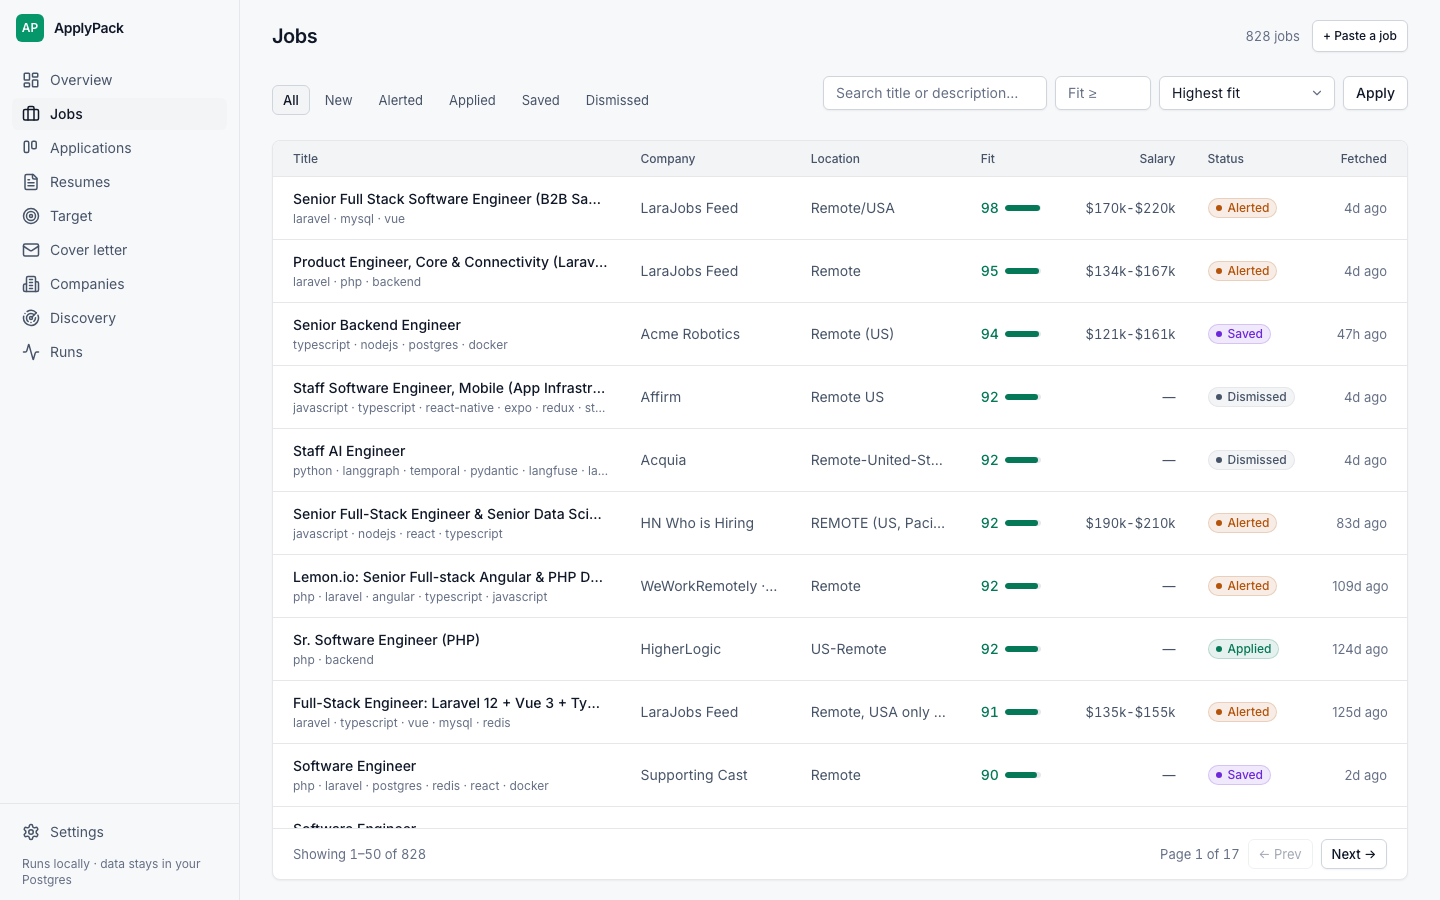
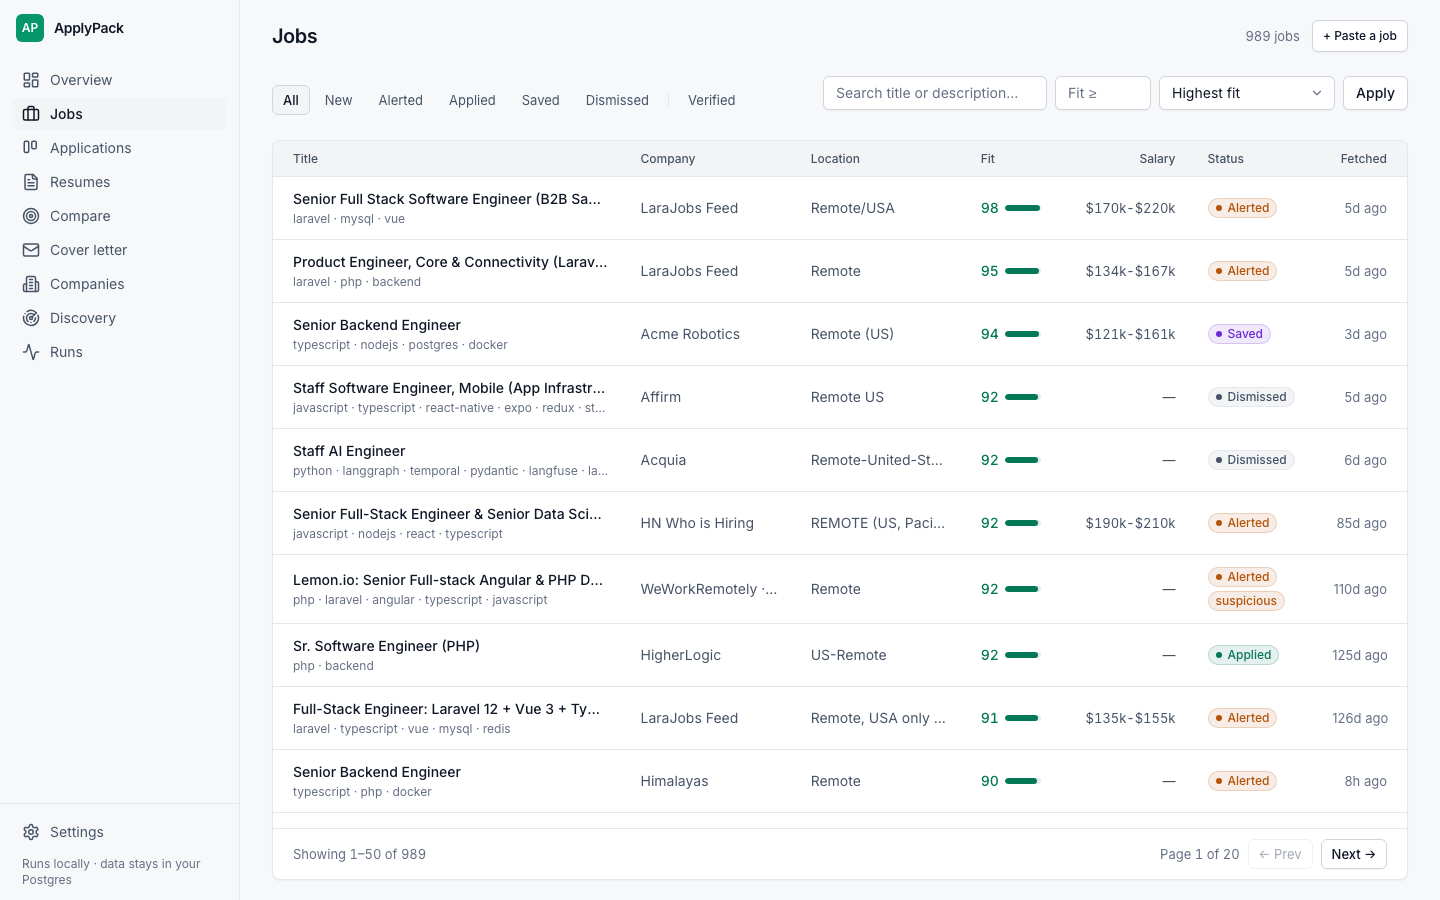
docs: catch README/SPEC/ARCHITECTURE up to v1.10.0
Quick start no longer demands a key in .env (ADR 0027), the Anthropic row
drops the measured-false "prompt-cached", 22 says what it counts, and the
tables learn parallel searches, the wizard, packs and the prompt fence.

diff --git a/README.md b/README.md
@@ -25,11 +25,12 @@ You know what you're looking for. The boards keep showing you everything
 else, and every "Senior Engineer" listing takes three minutes of reading
 to reveal the wrong stack, the wrong country, or a ghost posting.
 
-ApplyPack does that reading for you. It watches 22 job sources around
-the clock, scores each posting against your real profile, and pings your
-Telegram only when something deserves an application. Then it helps you
-apply well: it checks whether the job is real, scores your resume against
-the posting, and shows you exactly what to change.
+ApplyPack does that reading for you. It watches 22 kinds of job source
+around the clock, scores each posting against your real profile — several
+searches at once, if you're hunting in more than one direction — and pings
+your Telegram only when something deserves an application. Then it helps
+you apply well: it checks whether the job is real, scores your resume
+against the posting, and shows you exactly what to change.
 
 Everything runs on your machine. Your resume, your profile and every AI
 report stay in your own Postgres. `docker compose up` on a laptop or a
@@ -39,16 +40,19 @@ $5 VPS is the whole deployment story.
 
 | | |
 | --- | --- |
-| 🔭 **22 sources, checked hourly** | Ten ATS vendors — Greenhouse, Lever, Ashby, Workable, SmartRecruiters, Recruitee, Breezy, BambooHR, Pinpoint, Rippling — on the boards you pick, plus 11 aggregators and the monthly HN "Who is hiring" thread |
+| 🔭 **22 source integrations, checked hourly** | The number counts *kinds* of board, not companies: ten ATS vendors — Greenhouse, Lever, Ashby, Workable, SmartRecruiters, Recruitee, Breezy, BambooHR, Pinpoint, Rippling — on as many companies as you care to add, plus 11 cross-company aggregators and the monthly HN "Who is hiring" thread. Curated **starter packs** add a whole segment of companies at once |
+| 🚀 **A guided first run** | `/welcome` walks a first install through connecting an AI, proving the search works, turning a resume into a profile, and scoring the first matches — four clicks and one file pick |
+| 🎯 **Several searches at once** | Backend and QA, or contract and full-time: each search has its own stack, thresholds, resume and Telegram chat, and up to eight run in parallel. One AI call per posting scores all of them, so a second direction costs almost nothing |
 | 🧠 **A classifier with strict rules** | AI reads the full description against your stack, role types, seniority, regions and salary floor. "Full-stack" in a title is not a tech match, and "Remote · Germany" is not a US-remote job |
 | 📲 **Telegram instead of tab-refreshing** | alerts above your fit threshold, a daily digest, and a nudge when an application goes quiet for two weeks |
 | 🕵 **Ghost-job verification** | a live web-search checklist (careers page, company footprint, posting age, named humans) returns `legit` / `suspicious` / `fake` with evidence URLs |
 | 📄 **Resume scores that can't flatter** | the model marks facts, application code computes the score. A Laravel resume cannot sweet-talk its way to 85 against a Node.js posting, and v2 is honestly comparable to v1 |
 | ✍ **Targeted resume editor** | posting and resume side by side, every keyword highlighted, coverage recomputed on each keystroke without spending a single AI call |
 | 💌 **Cover letters that can't invent facts** | drafted from the posting, your resume and your own angle notes; every claim passes a fact gate against stored evidence, and the letter exports to PDF / DOCX |
-| 🗂 **Application tracking** | a small kanban from *applied* to *offer*, plus reminders for applications gone quiet |
+| 🗂 **Application tracking** | a kanban with columns you name yourself, the resume each application went out with, and reminders for the ones gone quiet |
 | 🔌 **Five AI backends, auto-failover** | Claude Code / Gemini / Codex CLIs riding your subscriptions, the Anthropic API, or any OpenAI-compatible endpoint including free local models |
 | 🧭 **Board discovery** | harvests company ATS boards from HN comments and queues them for a one-click promote |
+| 🛡 **Job posts can't hijack the prompt** | every posting, resume and web page reaches the model inside explicit untrusted-text markers, and a test fails the build if a new AI call site skips them |
 | 🏠 **Self-hosted and private** | official public APIs and RSS only, dashboard bound to `127.0.0.1`, no accounts, no telemetry |
 
 ## Quick start
@@ -56,12 +60,17 @@ $5 VPS is the whole deployment story.
 ```bash
 git clone https://github.com/applypack/applypack.git
 cd applypack
-cp .env.example .env    # add one AI engine, see below
+cp .env.example .env    # nothing to fill in yet
 docker compose up -d    # postgres + worker + dashboard → http://localhost:4747
 ```
 
-One line in `.env` is enough to start; the rest is configured in the
-dashboard later:
+**You don't need an API key before the first boot.** Paste one into the
+dashboard instead — step 1 of `/welcome`, or **Settings → AI engine** any
+time. Keys are stored in Postgres, shown masked, and never logged
+([ADR 0027](./docs/adr/0027-ai-keys-in-the-database.md)); `.env` is only the
+fallback for engines that have no key saved.
+
+If you'd rather keep credentials in the file, one line still does it:
 
 ```bash
 ANTHROPIC_API_KEY=sk-ant-...                              # Anthropic API
@@ -70,13 +79,17 @@ ANTHROPIC_API_KEY=sk-ant-...                              # Anthropic API
 # or: OPENAI_API_KEY=... (+ OPENAI_BASE_URL)              # OpenAI, OpenRouter, Groq, local
 ```
 
+Either way the AI tab shows, per engine, whether it is usable on this
+machine and where its credential came from.
+
 ### Your first fifteen minutes
 
 The dashboard opens on a four-step setup (`/welcome`) and walks you
 through it — about four clicks and one file pick:
 
-1. **Connect an AI** — the engine from `.env` is detected automatically;
-   with none, the page shows which line to add.
+1. **Connect an AI** — paste a key straight into the page, or let it
+   detect the engine already configured in `.env` or logged in on this
+   machine. A Test button proves the connection before you move on.
 2. **Test the search** — one button asks every job board and stores what
    it finds, no AI spent. You watch the sources answer.
 3. **Tell us about you** — upload your resume; the summary it comes back
@@ -140,8 +153,8 @@ green. Details per engine in [docs/ai-engines.md](./docs/ai-engines.md).
 
 ```
  22 sources ──▶ normalize ──▶ base filter ──▶ AI classifier ──▶ Postgres ──▶ Telegram
-   hourly        + dedupe      pure code,      your profile,     dashboard    only when
-   fetch                       zero cost       strict rules                   fit ≥ threshold
+   hourly        + dedupe      pure code,      one call, a       dashboard    only when
+   fetch                       zero cost       score per search               fit ≥ threshold
 ```
 
 Cheap deterministic filters drop the obvious misses first (excluded words
@@ -166,9 +179,9 @@ jobs" API, only per-company endpoints:
   `/companies`; the form probes the API live and refuses slugs that
   don't resolve.
 - **Aggregators**: RemoteOK, Remotive, We Work Remotely, Jobicy, Working
-  Nomads, Himalayas, Laravel Jobs, Golang Projects, Arbeitnow, the HN
-  jobs feed and the monthly HN "Who is hiring" thread. Broad and noisy,
-  which is fine: the filters and the classifier do the narrowing.
+  Nomads, Himalayas, Laravel Jobs, Golang Projects, Arbeitnow, 4 Day Week,
+  the HN jobs feed and the monthly HN "Who is hiring" thread. Broad and
+  noisy, which is fine: the filters and the classifier do the narrowing.
 
 Leave the aggregators on. Turning them off to "only watch real boards"
 sounds tidy and produces near-zero new jobs, because a dozen tracked
@@ -185,7 +198,7 @@ backends**, and you can attach every subscription and key you own:
 | Claude Code CLI | headless `claude -p` | your Claude.ai Pro/Max subscription |
 | Gemini CLI | headless `gemini -p` | your Google account (generous free tier) or an AI Studio key |
 | Codex CLI | headless `codex exec` | your ChatGPT Plus/Pro subscription |
-| Anthropic API | Messages API, prompt-cached | per token |
+| Anthropic API | Messages API | per token |
 | OpenAI-compatible API | `POST /chat/completions` to any base URL | OpenAI, OpenRouter, Groq, DeepSeek, or a free local model via LM Studio / Ollama |
 
 On **Settings → AI engine** each backend is a card: enable the ones you
@@ -201,10 +214,12 @@ the exact missing step), metered engines carry a "pay per token" badge,
 and a **Test** button runs one real end-to-end call. A "Last 7 days" line
 counts who actually served your calls.
 
-Two model slots per engine keep costs sane: a cheap **classifier model**
-reads every fetched job (Haiku 4.5 on the Claude engines) and a strong
-**resume model** handles the few judgment calls a day: resume scans,
-matches, verification (Opus 5 on the Claude engines).
+Three model slots per engine keep costs sane: a cheap **classifier
+model** reads every fetched job (Haiku 4.5 on the Claude engines), a
+strong **resume model** handles the few judgment calls a day — resume
+scans, matches, verification (Opus 5 on the Claude engines) — and an
+optional **cover-letter model** that follows the resume model unless you
+set it.
 
 Setup for every engine, local and Docker, lives in
 **[docs/ai-engines.md](./docs/ai-engines.md)**.
@@ -221,10 +236,14 @@ bench for exactly that: `npm run bench:resume -- --engine all`).
   extra. The CLI engines ride the subscription's usage window; when it
   runs dry mid-day, the chain fails over to your next engine and comes
   back on its own.
-- **Anthropic API only**: roughly **$2–10/month**. About $0.001 per
-  classified job at 5–10 matching jobs a day, with prompt caching
-  covering ~90% of the system-prompt tokens. The two-stage classifier
-  mode cuts another 30–40%.
+- **Anthropic API only**: roughly **$2–10/month**. A classified posting
+  costs about **$0.003** — ~2,000 input and ~250 output tokens on Haiku
+  4.5 — and the bill follows how many postings your sources produce, not
+  how many you apply to. The two-stage classifier mode cuts 30–40% more
+  by sending most postings a much shorter prompt.
+  *No prompt-cache discount is included in that figure, and none applies:
+  Haiku 4.5 only caches prefixes of 4,096 tokens or more and our
+  classifier prompt is well under that. Measured, not assumed.*
 - **Free tier**: Gemini CLI's free quota covers the classifier for a
   typical day; a local model via LM Studio / Ollama through the
   OpenAI-compatible engine costs nothing at all.
@@ -240,13 +259,15 @@ on the AI tab shows exactly which engine your calls went to.
 
 | Page | URL | What it's for |
 | --- | --- | --- |
-| Overview | `/` | Counters by status, recent alerts, cron health, pause/resume |
+| First run | `/welcome` | The four setup steps; `/` redirects here until you finish or skip |
+| Overview | `/` | Counters by status, recent alerts, cron health, pause/resume, Fetch now |
 | Jobs | `/jobs` | Filterable, sortable list of everything fetched |
 | Paste a job | `/jobs/new` | Save a posting by hand (LinkedIn, email, referral); it gets classified like any other |
 | Job detail | `/jobs/:id` | Full description, AI verdict, status actions, verification, resume match, tracking |
 | Targeted editor | `/jobs/:id/target` | Posting ↔ resume side by side, live keyword score, edit in place |
-| Target | `/target` | One-shot comparison: paste any posting, pick / upload / paste any resume |
-| Applications | `/applications` | Kanban: applied → screen → tech → onsite → offer / rejected / ghosted |
+| Compare | `/target` | One-shot comparison: paste any posting, pick / upload / paste any resume |
+| Cover letter | `/letter` | Write a letter for a posting that isn't stored yet: pick, paste or link it, then draft |
+| Applications | `/applications` | Kanban with drag-and-drop. Applied and Rejected/Ghosted are fixed; every column between them is yours to name, add and reorder ([ADR 0025](./docs/adr/0025-custom-work-stages.md)) |
 | Resumes | `/resumes` | Upload `.pdf` / `.docx` / `.md` / `.txt`, AI scan, version history |
 | Companies | `/companies` | Tracked boards; add new ones with a live probe that refuses bad slugs |
 | Discovery | `/discovery` | Board candidates harvested from HN, with the discovery toggles |
@@ -295,7 +316,7 @@ a toggle flipped in the UI reaches the worker on its next tick.
 
 ```bash
 npm run lint:types   # tsc --noEmit
-npm test             # node --test, 400+ unit tests on the pure modules
+npm test             # node --test, 860 unit tests on the pure modules
 ```
 
 CI runs both on every push. AI- and DB-touching modules are verified by

diff --git a/SPEC.md b/SPEC.md
@@ -72,19 +72,22 @@ runAllFetchers()         filter by Company.active and AppSettings.disabledSource
    ↓
 NormalizedJob[]          unified shape (companyId, externalId, title, location, …)
    ↓
-passesBaseFilter()       admit if title contains stackRequired OR roleTypes; reject stackExclude
+passesAnyBaseFilter()    admit if ANY running search admits it (title contains its
+                         stackRequired OR roleTypes; its stackExclude rejects)
    ↓
 findUnique (companyId, externalId)
    ↓ (skip if seen before)
-classifyJob(input, profile, mode)
+classifyJob(input, profiles[], mode)   ONE call for every running search
    ├─ mode='single':   Haiku 4.5 only
    └─ mode='two_stage': Haiku 4.5 prefilter → Haiku 4.5 full only on yes
    ↓
-ClaudeClassification     {fit_score, location_match, salary, tech_match, red_flags, summary}
+{salary, scores: [{profile_id, fit_score, location_match, tech_match, …}]}
    ↓
-decideDismissReason()    fit < minFitScore | !location_match | salary < minSalaryUsd → DISMISSED
-   ↓ otherwise
-Job(status=NEW) → sendTelegramAlert(profile-routed) → Job.status=ALERTED
+mergeVerdicts()          per-search decideDismissReason() against that search's
+                         thresholds; the winner's numbers become Job.fitScore,
+                         every verdict becomes a JobScore row
+   ↓ dismissed only when every search dismissed it
+Job(status=NEW) → one alert, named for the winner, routed to its telegramTargetId
 ```
 
 The same inner loop is reused by `runHnHiringJob` (extracted into
@@ -165,6 +168,27 @@ clause at the start of the affected job/handler.
 | `discoveryEnabled`               | false    | HN parser does not record CompanyCandidates  |
 | `fetchingEnabled`                | false    | Master pause: hourly fetch + monthly HN pull exit early (`fetching-paused`); digest/cleanup/discovery/dashboard unaffected. Deployments start PAUSED — enable via `/settings` → "Job fetching" |
 | `disabledSources` (String[])     | `[]`     | Skip whole AtsType families in runAllFetchers |
+
+## Application tracking
+
+`Job.pipelineStage` is the funnel state, orthogonal to `Job.status`
+(`status=APPLIED` + `pipelineStage='ghosted'` is a valid pair). Columns are
+configured on `/settings` → General: **Applied** and **Rejected/Ghosted** are
+fixed, everything between them is user-named and reorderable, and keys never
+change once created (ADR 0025). Every stage move writes a `JobStageEvent`
+ledger row in the same transaction (ADR 0024).
+
+**Which resume it went out with.** "Mark applied" on `/jobs/:id` carries a
+resume select — preselected from the comparison on screen, else from the
+search that scored the posting best — and writes `Job.appliedResumeId`,
+`appliedResumeVersion` and `appliedResumeText`. The text snapshot is not
+redundant: "Upload a new version" replaces the bytes of the same `Resume`
+row, so an id alone would name v3 and hand back v5's words (the pattern
+`ResumeMatch.resumeText` already uses). The job page and the stale digest
+then say "applied with Senior Backend v3"
+(`src/jobs/applied-with.ts`, pure). Deleting the resume sets the FK NULL and
+leaves the snapshot; rows applied before the feature stay NULL and render as
+they always did.
 
 ## Discovery
 
@@ -334,10 +358,10 @@ exclusive to verification, ADR 0009).
 - Prisma 6 + Postgres 16 (real migrations from `phase-3.0` baseline onward)
 - node-cron for scheduling, no Redis / BullMQ
 - Hono 4 for the dashboard, JSX SSR with `hono/jsx`, Tailwind via CDN over semantic CSS-variable tokens (no build pipeline; light SaaS theme, see DESIGN.md)
-- `src/ai-provider.ts` seam, five engines: `anthropic_api` (SDK, per-token), `claude_code` (headless CLI, subscription), `gemini_cli` (headless CLI, Google account), `openai_api` (fetch → any /chat/completions endpoint via OPENAI_BASE_URL), `codex_cli` (headless CLI, ChatGPT subscription). `/settings` → "AI engine" stores an ordered chain + per-engine classifier/resume models (AppSettings.aiEngine JSON, ADR 0013/0014); calls fail over down the chain automatically; `.env` seeds the default (Haiku 4.5 classifier, Opus 5 resume); `AI_CONCURRENCY` jobs classified at once (default 3)
+- `src/ai-provider.ts` seam, five engines: `anthropic_api` (SDK, per-token), `claude_code` (headless CLI, subscription), `gemini_cli` (headless CLI, Google account), `openai_api` (fetch → any /chat/completions endpoint via OPENAI_BASE_URL), `codex_cli` (headless CLI, ChatGPT subscription). `/settings` → "AI engine" stores an ordered chain + per-engine classifier/resume/cover models (AppSettings.aiEngine JSON, ADR 0013/0014) and, for the four key-bearing engines, the API key itself (AppSettings.aiKeys, ADR 0027 — DB first, `.env` as fallback, never rendered in full); calls fail over down the chain automatically; `.env` seeds the default (Haiku 4.5 classifier, Opus 5 resume); `AI_CONCURRENCY` jobs classified at once (default 3)
 - node:test runner (`npm test`), no jest
 
 ## Project layout
 
-See [README.md](./README.md) for the full source tree.
+See [ARCHITECTURE.md](./ARCHITECTURE.md) for the data flow and file map.
 See [docs/adr/](./docs/adr/) for the "why" behind non-trivial choices.

diff --git a/ARCHITECTURE.md b/ARCHITECTURE.md
@@ -235,6 +235,7 @@ src/
     cleanup-job.ts              ← runCleanupJob (Sunday 03:00)
     stale-applications-job.ts   ← runStaleApplicationsJob (daily 08:00)
     stale-applications-format.ts  pure formatStaleMessage
+    applied-with.ts             ← pure "Senior Backend v3" label for the applied resume
     hn-hiring-job.ts            ← runHnHiringJob (monthly 1st 06:00)
     discovery-job.ts            ← runDiscoveryJob (Sunday 04:00, validation probe)
     process-jobs.ts             ← shared inner loop used by fetch + HN
@@ -328,6 +329,7 @@ prisma/
 | `POST /settings/reclassify`      | web     | spawns `runReclassifyAll` async (lock)   |
 | `POST /settings/hn-run`          | web     | spawns `runHnHiringJob` async (lock)     |
 | `POST /jobs/:id/reclassify`      | web     | sync `classifyJob` → auto-demote on fail |
+| `POST /jobs/:id/status`          | web     | status change; on APPLIED also seeds the funnel and snapshots the picked resume (id + version + text) |
 | `POST /companies/new`            | web     | sync `probeAts` → upsert                 |
 | `POST /companies/starter-pack`   | web     | resolve a pack live (`probeAts`, ≥1 job wins) → preview; `/import` inserts inactive, `/enable` activates |
 | `POST /resumes`                  | web     | extract text → `scanResume` (sync, ~1 min) |
@@ -358,6 +360,8 @@ erDiagram
   Job ||--o{ JobScore : "1..N onDelete:Cascade"
   Company ||--o{ Job : "1..N onDelete:Cascade"
   CompanyCandidate }o--|| AtsType : "PROMOTED → Company"
+  Resume ||--o| Profile : "resumeId — onDelete:SetNull"
+  Resume ||--o{ Job : "appliedResumeId — onDelete:SetNull"
   Resume ||--o{ ResumeMatch : "1..N onDelete:Cascade"
   Job ||--o{ ResumeMatch : "1..N onDelete:Cascade"
   Job ||--o{ JobVerification : "1..N onDelete:Cascade"
@@ -374,6 +378,9 @@ erDiagram
     bool hnParserEnabled
     bool discoveryEnabled
     string_array disabledSources
+    json aiKeys "per-engine API keys, DB-first (ADR 0027)"
+    datetime setupCompletedAt "NULL = / redirects to /welcome"
+    json pipelineStages "user-named funnel columns (ADR 0025)"
   }
 
   Profile {
@@ -392,6 +399,8 @@ erDiagram
     int minSalaryUsd
     int minFitScore
     int telegramTargetId FK
+    bool active "runs in the pipeline (ADR 0028)"
+    int resumeId FK "the resume this search hunts with"
   }
 
   Company {
@@ -423,6 +432,9 @@ erDiagram
     string pipelineStage
     string recruiterContact
     text applicationNotes
+    int appliedResumeId FK "onDelete:SetNull"
+    int appliedResumeVersion
+    text appliedResumeText "snapshot — resume bytes are replaced in place"
   }
 
   TelegramTarget {
@@ -458,6 +470,7 @@ erDiagram
     string seniority
     int yearsExperience
     string_array skills
+    string_array primarySkills "the 2-5 core technologies"
     string_array roleTypes
     text summary
     json issues
